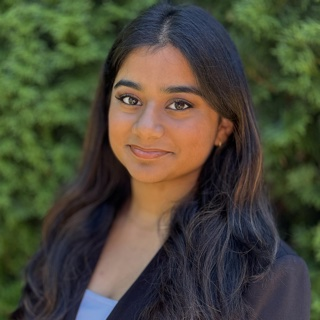
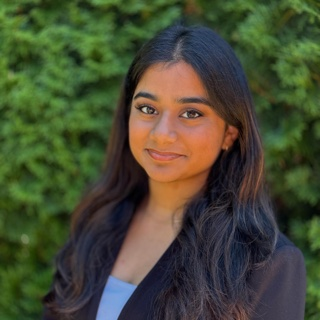
Zoom team headshots out to full width

diff --git a/index.html b/index.html
@@ -353,7 +353,7 @@ footer .wrap{display:flex;flex-wrap:wrap;justify-content:space-between;gap:12px;
       </div>
       <div class="team">
         <div class="person">
-          <img class="avatar" src="kavya.jpg?v=4" alt="Kavya Veeraghanta" width="104" height="104" loading="lazy">
+          <img class="avatar" src="kavya.jpg?v=5" alt="Kavya Veeraghanta" width="104" height="104" loading="lazy">
           <div>
             <h3>Kavya Veeraghanta</h3>
             <p class="role">Co-founder · Business</p>
@@ -361,7 +361,7 @@ footer .wrap{display:flex;flex-wrap:wrap;justify-content:space-between;gap:12px;
           </div>
         </div>
         <div class="person">
-          <img class="avatar" src="aditi.jpg?v=4" alt="Aditi Dewangan" width="104" height="104" loading="lazy">
+          <img class="avatar" src="aditi.jpg?v=5" alt="Aditi Dewangan" width="104" height="104" loading="lazy">
           <div>
             <h3>Aditi Dewangan</h3>
             <p class="role">Co-founder · Tech lead</p>
